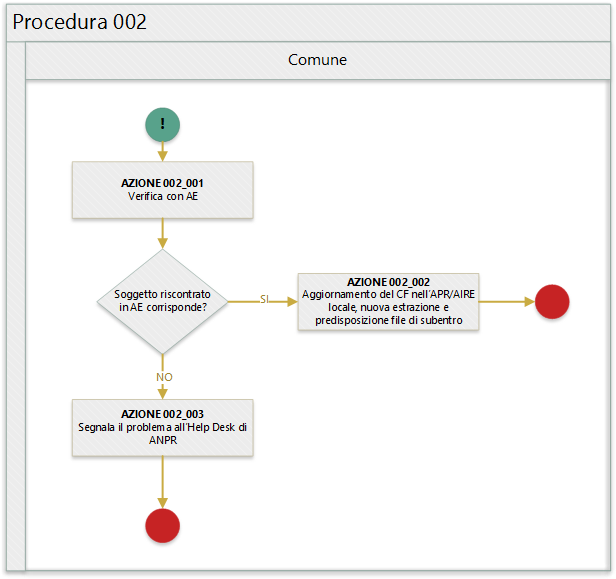
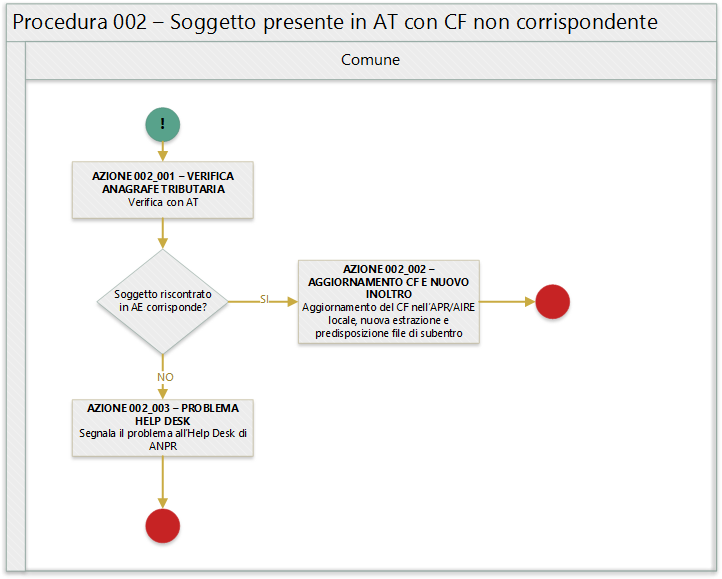
Aggiornato naming procedura 002

diff --git a/TAB01_ANOMALIE_ANPR.md b/TAB01_ANOMALIE_ANPR.md
@@ -8,8 +8,8 @@
 |codice anomalia | messaggio di errore | severità | procedura suggerita|
 | ------------- | ------------- | ------------- | ------------- |
 |	EA001	|	Codice fiscale formalmente non corretto	| warning da rimuovere prima del subentro | [Procedura 001 - Codice Fiscale non corretto o errato](procedure/PROCEDURA_001.md) |
-|	EA002	|	Soggetto presente in AT con  DA uguali a quelli del comune ma CF del comune assente	| warning non bloccante | [Procedura 002](procedure/PROCEDURA_002.md) |
-|	EA003	|	Soggetto presente in AT con  DA uguali a quelli del comune ma CF diverso	| warning non bloccante | [Procedura 002](procedure/PROCEDURA_002.md) |
+|	EA002	|	Soggetto presente in AT con  DA uguali a quelli del comune ma CF del comune assente	| warning non bloccante | [Procedura 002 - Soggetto presente in AT con CF non corrispondente](procedure/PROCEDURA_002.md) |
+|	EA003	|	Soggetto presente in AT con  DA uguali a quelli del comune ma CF diverso	| warning non bloccante | [Procedura 002 - Soggetto presente in AT con CF non corrispondente](procedure/PROCEDURA_002.md) |
 |	EA029	|	Codice fiscale calcolato dai  DA del comune non presente in AT	| warning non bloccante | [Procedura 003](procedure/PROCEDURA_003.md) |
 |	EA030	|	CF di un soggetto residente  in piu' comuni	| warning non bloccante | [Procedura 005](procedure/PROCEDURA_005.md) |
 |	EA031	|	CF di un soggetto residente  sia in Italia che all'estero (AIRE)	| warning da rimuovere prima del subentro | [Procedura 005](procedure/PROCEDURA_005.md) |

diff --git a/procedure/PROCEDURA_002.md b/procedure/PROCEDURA_002.md
@@ -1,6 +1,6 @@
 >**QUESTO DOCUMENTO É UNA BOZZA DI LAVORO**
 
-# Procedura 002
+# Procedura 002 - SOGGETTO PRESENTE IN AT CON CH NON CORRISPONDENTE
 
 > ritorna [*README*](../README.md) o [*Tabella anomalie ANPR*](../TAB01_ANOMALIE_ANPR.md)
 
@@ -23,13 +23,13 @@ La seguente figura sintetizza la procedura per la gestione delle anomalie.
 ## Descrizione azione
 In quanto segue si riporta una descrizione delle azioni previsti per la presente procedura.
 
-### AZIONE 002_001
+### AZIONE 002_001 - VERIFICA ANAGRAFE TRIBUTARIA
 L'ufficiale di anagrafe verifica, tramite il sistema *SIATEL v2.0 - PuntoFisco* reso disponibile dall'Agenzia delle entrate, l'attribuzione dello stesso da parte dell'Agenzia delle entrate.
 
-### AZIONE 002_002
+### AZIONE 002_002 - AGGIORNAMENTO CF E NUOVO INOLTRO
 L'ufficiale di anagrafe, a valle del positivo riscontro con l'Agenzia delle entrate, provvede ad aggiornare il *codice fiscale* sul sistema gestionale del Comune per dare seguito ad una nuova estrazione dei dati e alla predisposizione dei file di subentro al fine di provvedere ad eseguire l'inoltro al sistema ANPR.
 
-### AZIONE 002_003
+### AZIONE 002_003 - PROBLEMA HELP DESK
 Nel caso in in cui l'ufficiale di anagrafe non riesca ad effettuare il riscontro del CF del soggetto tramite il sistema *SIATEL v2.0 - PuntoFisco* reso disponibile dall'Agenzia delle entrate, contatta l'Help Desk di ANPR per segnalare la circostanza.
 
 ## Riferimenti di interesse
